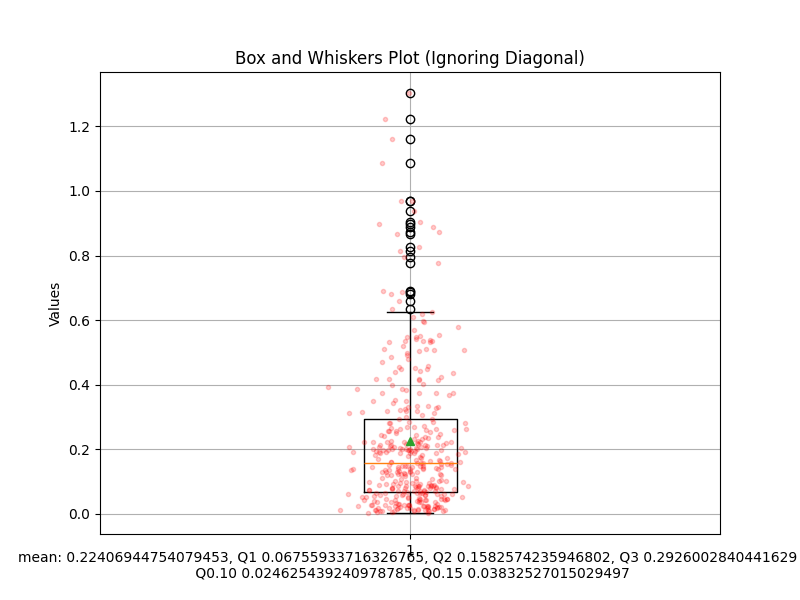
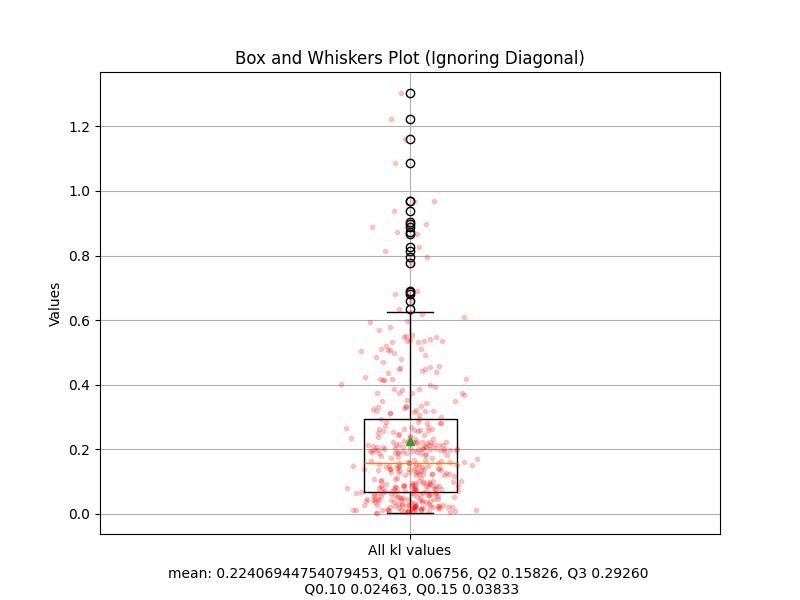
master robustness increase, graphs update

diff --git a/master.py b/master.py
@@ -36,93 +36,102 @@ def process_leaks():
     # Log file
     log_file = 'log.txt'
 
+    # For each leak call function to process it
     for data_leak_name in leak_names:
-        # Calculate leak start time
-        leak_start_time = time.time()
-        
-
-        if not data_leak_name.strip():
-            continue  # Skip empty lines
-        elif data_leak_name.startswith('#'):
-            print_and_log(f"Skip {data_leak_name.replace('#', '')}", log_file)
-            continue # Skip commented lines
-        
-        data_leak_name = data_leak_name.strip()
-        # Mode selection
-        mode = None
-        if data_leak_name.split()[-1] in modes:
-            mode = data_leak_name.split()[-1]
-            data_leak_name = data_leak_name.rsplit(' ', 1)[0].strip()
-
-        stat = 'all'
-        # Stat selection
-        if data_leak_name.split()[-1] in stats:
-            stat = data_leak_name.split()[-1]
-            data_leak_name = data_leak_name.rsplit(' ', 1)[0].strip()
-
-        print_and_log(f"Processing data leak: {data_leak_name}, mode: {mode}", log_file)
-
-        # Define the directory path based on the provided name
-        data_leak_dir = os.path.join(os.getcwd(), 'leaks/' + data_leak_name)
-
-        # Check if the directory exists
-        if not os.path.isdir(data_leak_dir):
-            print_and_log(f"The directory '{data_leak_name}' does not exist in the current path.", log_file)
-            continue
-
-        # Execute data extraction
-        print_and_log("Executing data extraction...", log_file)
-        start_extract_time = time.time()  # Start time of extraction
-        data_folder = os.path.join(data_leak_dir, 'data')
-        df = read_files_in_folder(data_folder, mode)
-        end_extract_time = time.time()  # End time of extraction
-
-        if df is None or len(df.index) == 0:
-            print_and_log("No valid data found during extraction.", log_file)
-            continue
-
-        # Calculate elapsed time for extraction
-        time_elapsed_extract = end_extract_time - start_extract_time
-        print_and_log(f"Elapsed time for data extraction: {time_elapsed_extract:.2f} seconds.", log_file)
-
-        # Optionally display the extracted data
-        if verbose >= 0:
-            print_and_log(f"Extracted data: {len(df.index)} passwords", log_file)
-        if verbose > 0:
-            print_and_log(str(df), log_file)
-
-        # Execute data analysis
-        if verbose >= 0:
-            print_and_log("Executing data analysis...", log_file)
-        start_analysis_time = time.time()  # Start time of analysis
-
-        # Check for single stat or all stats
-        if stat in stats:
-            output_file = os.path.join(data_leak_dir, stat + '.txt')
-            print_and_log("Single stat:" + stat, log_file)
-            one_stat(df, stat, output_file)    
-        else:
-            output_file = os.path.join(data_leak_dir, 'Stats.txt')
-            print_and_log("All stats", log_file)
-            statistics(df, output_file)
-        
-        end_analysis_time = time.time()  # End time of analysis
-
-        # Calculate elapsed time for analysis
-        time_elapsed_analysis = end_analysis_time - start_analysis_time
-        print_and_log(f"Elapsed time for data analysis: {time_elapsed_analysis:.2f} seconds.", log_file)
-
-        print_and_log(f"Analysis completed successfully. Check the file '{output_file}' for results.", log_file)
-
-        # Calculate leak time
-        leak_end_time = time.time()
-        leak_time_elapsed = leak_end_time - leak_start_time
-        print_and_log(f"\nTotal time elapsed for data leak: {leak_time_elapsed:.2f} seconds.\n", log_file)
+        # Handle errors for each leak
+        try:
+            process_leak(data_leak_name, log_file)
+        except Exception as e:
+            # Log the exception and continue with the next leak
+            print_and_log(f"Error processing data leak {data_leak_name}: {e}", log_file)
+            continue  # Skip to the next leak
 
     # Calculate the total elapsed time for all leaks
     total_end_time = time.time()
     total_time_elapsed = total_end_time - total_start_time
     print_and_log(f"\n\nTotal time elapsed for all data leaks: {total_time_elapsed:.2f} seconds.\n", log_file)
+
+def process_leak(data_leak_name, log_file):
+    # Calculate leak start time
+    leak_start_time = time.time()
+
+    if not data_leak_name.strip():
+        return  # Skip empty lines
+    elif data_leak_name.startswith('#'):
+        print_and_log(f"Skip {data_leak_name.replace('#', '')}", log_file)
+        return # Skip commented lines
+    
+    data_leak_name = data_leak_name.strip()
+    # Mode selection
+    mode = None
+    if data_leak_name.split()[-1] in modes:
+        mode = data_leak_name.split()[-1]
+        data_leak_name = data_leak_name.rsplit(' ', 1)[0].strip()
+
+    stat = 'all'
+    # Stat selection
+    if data_leak_name.split()[-1] in stats:
+        stat = data_leak_name.split()[-1]
+        data_leak_name = data_leak_name.rsplit(' ', 1)[0].strip()
+
+    print_and_log(f"Processing data leak: {data_leak_name}, mode: {mode}", log_file)
+
+    # Define the directory path based on the provided name
+    data_leak_dir = os.path.join(os.getcwd(), 'leaks/' + data_leak_name)
+
+    # Check if the directory exists
+    if not os.path.isdir(data_leak_dir):
+        print_and_log(f"The directory '{data_leak_name}' does not exist in the current path.", log_file)
+        return
+    # Execute data extraction
+    print_and_log("Executing data extraction...", log_file)
+    start_extract_time = time.time()  # Start time of extraction
+    data_folder = os.path.join(data_leak_dir, 'data')
+    df = read_files_in_folder(data_folder, mode)
+    end_extract_time = time.time()  # End time of extraction
+
+    if df is None or len(df.index) == 0:
+        print_and_log("No valid data found during extraction.", log_file)
+        return
+
+    # Calculate elapsed time for extraction
+    time_elapsed_extract = end_extract_time - start_extract_time
+    print_and_log(f"Elapsed time for data extraction: {time_elapsed_extract:.2f} seconds.", log_file)
+
+    # Optionally display the extracted data
+    if verbose >= 0:
+        print_and_log(f"Extracted data: {len(df.index)} passwords", log_file)
+    if verbose > 0:
+        print_and_log(str(df), log_file)
+
+    # Execute data analysis
+    if verbose >= 0:
+        print_and_log("Executing data analysis...", log_file)
+    start_analysis_time = time.time()  # Start time of analysis
+
+    # Check for single stat or all stats
+    if stat in stats:
+        output_file = os.path.join(data_leak_dir, stat + '.txt')
+        print_and_log("Single stat:" + stat, log_file)
+        one_stat(df, stat, output_file)    
+    else:
+        output_file = os.path.join(data_leak_dir, 'Stats.txt')
+        print_and_log("All stats", log_file)
+        statistics(df, output_file)
+    
+    end_analysis_time = time.time()  # End time of analysis
+
+    # Calculate elapsed time for analysis
+    time_elapsed_analysis = end_analysis_time - start_analysis_time
+    print_and_log(f"Elapsed time for data analysis: {time_elapsed_analysis:.2f} seconds.", log_file)
+
+    print_and_log(f"Analysis completed successfully. Check the file '{output_file}' for results.", log_file)
+
+    # Calculate leak time
+    leak_end_time = time.time()
+    leak_time_elapsed = leak_end_time - leak_start_time
+    print_and_log(f"\nTotal time elapsed for data leak: {leak_time_elapsed:.2f} seconds.\n", log_file)
+
 
 def get_distribution_comparison_with_logging():
     log_file = 'log.txt'

diff --git a/distribution_comparison.py b/distribution_comparison.py
@@ -4,7 +4,7 @@ import numpy as np
 from scipy.stats import entropy
 import pandas as pd
 import warnings
-from plots import get_colors, plot_distributions, plot_matrix, plot_scores_by_length, boxwhiskers_from_kl_matrix, plot_by_length, boxwhiskers_from_kl_matrices
+from plots import get_colors, plot_distributions, plot_matrix, plot_scores_by_length, boxwhiskers_from_kl_matrix, plot_by_length, boxwhiskers_from_kl_matrices, random_scatterplot_klmatrices
 
 # Suppress the FutureWarning and the runtime one
 warnings.simplefilter(action='ignore', category=FutureWarning)
@@ -162,8 +162,9 @@ def get_distribution_comparison(leaks_file='leak_types.txt'):
     # Get names list
     leak_names = [leak_name for leak_name, _ in leak_types]
   
-    # Get unique categories
-    leak_categories = set([leak_type for _, leak_type in leak_types])
+    # Get unique categories and order them
+    leak_categories = list(set([leak_type for _, leak_type in leak_types]))
+    leak_categories.sort()
 
     # Variable to store probability distributions
     counts = []
@@ -200,6 +201,9 @@ def get_distribution_comparison(leaks_file='leak_types.txt'):
     kl_df_score = compute_kl_matrix(score_distributions, leak_names)
     kl_df_score.to_csv('./leaks/kl_df_score.csv')
 
+    # Get the colors for the plots
+    colors_leaks, colors_categories = get_colors(leak_types)
+
     # Unused. Useful to plot by length scores and masks
     if length:
         # Get kl matrix for mask and length
@@ -209,17 +213,17 @@ def get_distribution_comparison(leaks_file='leak_types.txt'):
         # Plot matrices
         plot_by_length(leak_names, kl_dfs_mask, kl_dfs_score_length, figures_folder = 'figures/')
         # Plot and save the score by length distribution
-        plot_scores_by_length(score_length_dataframes, leak_names, colors).savefig(figures_folder + 'scores_length_distribution.png')
+        plot_scores_by_length(score_length_dataframes, leak_names, colors_leaks).savefig(figures_folder + 'scores_length_distribution.png')
 
-    # Get the colors for the plots
-    colors = get_colors(leak_types)
 
     # Plot and save the score distributions
-    plot_distributions(score_distributions, leak_names, colors).savefig(figures_folder + 'scores_distribution.png')
+    plot_distributions(score_distributions, leak_names, colors_leaks).savefig(figures_folder + 'scores_distribution.png')
     # Plot and save the kl score matrix
     plot_matrix(kl_df_score.values, leak_names, 'coolwarm', vmin=0, vmax=1).savefig(figures_folder + 'scores_kl_matrix.png')
     # Get box and whiskers plot for values in the score kl matrix
     boxwhiskers_from_kl_matrix(kl_df_score).savefig(figures_folder + 'score_boxwhiskers_klmatrix.png')
+    # Get scatter from values
+    random_scatterplot_klmatrices([kl_df_score], ['All values']).savefig(figures_folder + 'score_scatter_klmatrix.png')
 
     kl_matrices_categories = []
     # Get stats for each category
@@ -234,7 +238,9 @@ def get_distribution_comparison(leaks_file='leak_types.txt'):
         plot_matrix(category_df.values, leaks_in_category, 'coolwarm', vmin=0, vmax=1).savefig(f'{figures_folder}/c_{category}_scores_kl_matrix.png')
 
     # Plot box and whiskers for each category
-    boxwhiskers_from_kl_matrices(kl_matrices_categories, leak_categories).savefig(figures_folder + 'categories_boxwhiskers_klmatrices.png')
+    boxwhiskers_from_kl_matrices(kl_matrices_categories, leak_categories, colors_categories).savefig(figures_folder + 'categories_boxwhiskers_klmatrices.png')
+    # Scatterplot without box whiskers
+    random_scatterplot_klmatrices(kl_matrices_categories, leak_categories, colors_categories).savefig(figures_folder + 'categories_scatter_klmatrices.png')
 
 
 

diff --git a/plots.py b/plots.py
@@ -24,9 +24,10 @@ def get_colors(leak_types):
         'games': 0
     }
     
-    colors = []
+    # Colors for leaks
+    colors_leaks = []
         
-        # For each line in the file
+    # For each line in the file give a color for a leak
     for leak in leak_types:
         category = leak[-1]  # The category is the second item of the dict
         
@@ -38,9 +39,23 @@ def get_colors(leak_types):
         color = colormap(category_count[category] / len([l for l in leak_types if category in l]))  # Normalized brightness level
         
         # Append the color
-        colors.append(to_rgba(color))
+        colors_leaks.append(to_rgba(color))
+
+    # colors_categories
+    colors_categories = []
+
+    # Get a color for each category
+    for category in category_count:
+        # Get colormap
+        colormap = base_colors[category]
+        # Select color in the middle
+        color = colormap(0.99)
+        
+        # Append the color
+        colors_categories.append(color)
     
-    return colors
+    
+    return colors_leaks, colors_categories
             
 
 def plot_distributions(distributions, names, colors=None):
@@ -195,6 +210,7 @@ def boxwhiskers_from_kl_matrix(kl_matrix):
     plt.figure(figsize=(8, 6))
     plt.boxplot(non_diag_values, showmeans='True')
     plt.title('Box and Whiskers Plot (Ignoring Diagonal)')
+    plt.xticks([1],['All kl values'])
     plt.ylabel('Values')
     plt.grid(True)
 
@@ -208,17 +224,16 @@ def boxwhiskers_from_kl_matrix(kl_matrix):
     q1 = np.quantile(non_diag_values, .25)
     q2 = np.quantile(non_diag_values, .50)
     q3 = np.quantile(non_diag_values, .75)
-    plt.text(1, -0.2, f'mean: {np.mean(non_diag_values)}, Q1 {q1}, Q2 {q2}, Q3 {q3} \n Q0.10 {q010}, Q0.15 {q015}', horizontalalignment='center')
+    plt.text(1, -0.25, f'mean: {np.mean(non_diag_values)}, Q1 {q1:.5f}, Q2 {q2:.5f}, Q3 {q3:.5f} \n Q0.10 {q010:.5f}, Q0.15 {q015:.5f}', horizontalalignment='center')
     
     return plt
 
-def boxwhiskers_from_kl_matrices(kl_matrices, labels):
+def boxwhiskers_from_kl_matrices(kl_matrices, labels, colors=None):
     # Get values without the main diagonal (as it is always o)
     values = []
     for matrix in kl_matrices:
         non_diag_values = matrix.to_numpy()[~np.eye(matrix.shape[0], dtype=bool)]
         values.append(non_diag_values)
-    
 
     # Create boxplot
     plt.figure(figsize=(8, 6))
@@ -232,6 +247,28 @@ def boxwhiskers_from_kl_matrices(kl_matrices, labels):
     for i in range(len(labels)):
         y = values[i]
         x = np.random.normal(1+i, 0.04, size=len(y))
-        plt.plot(x, y, 'r.', alpha=0.2)
+        plt.plot(x, y, '.', alpha=0.5, color=colors[i] if colors else None)
+    
+    return plt
+
+def random_scatterplot_klmatrices(kl_matrices, labels, colors = None):
+    # Get values without the main diagonal (as it is always o)
+    values = []
+    for matrix in kl_matrices:
+        non_diag_values = matrix.to_numpy()[~np.eye(matrix.shape[0], dtype=bool)]
+        values.append(non_diag_values)
+
+    # Create boxplot
+    plt.figure(figsize=(8, 6))
+    plt.title('Categories Scatterplot (Ignoring Diagonal)')
+    plt.ylabel('Values')
+    plt.xticks(np.array([i for i in range(len(labels))]) + 1 , labels, rotation=45, ha='right', fontsize=8)
+    plt.grid(True)
+
+    # Plot points for visualization
+    for i in range(len(labels)):
+        y = values[i]
+        x = np.random.normal(1+i, 0.04, size=len(y))
+        plt.plot(x, y, '.', alpha=0.5, color=colors[i] if colors else None)
     
     return plt
